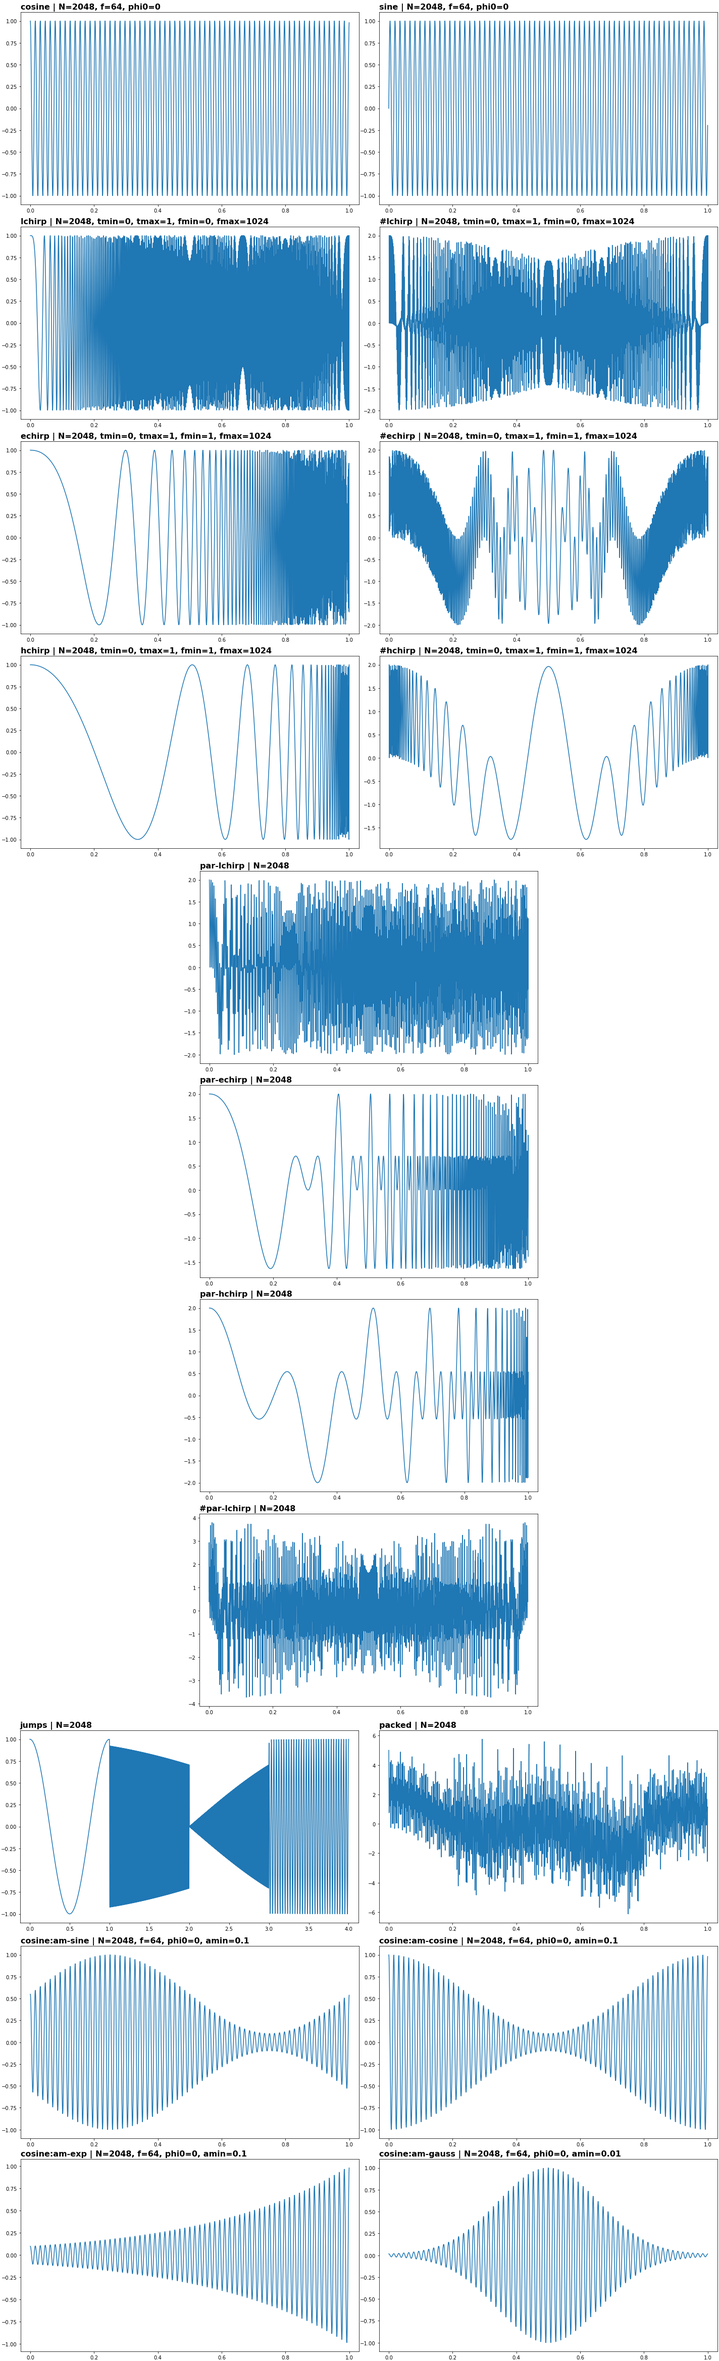
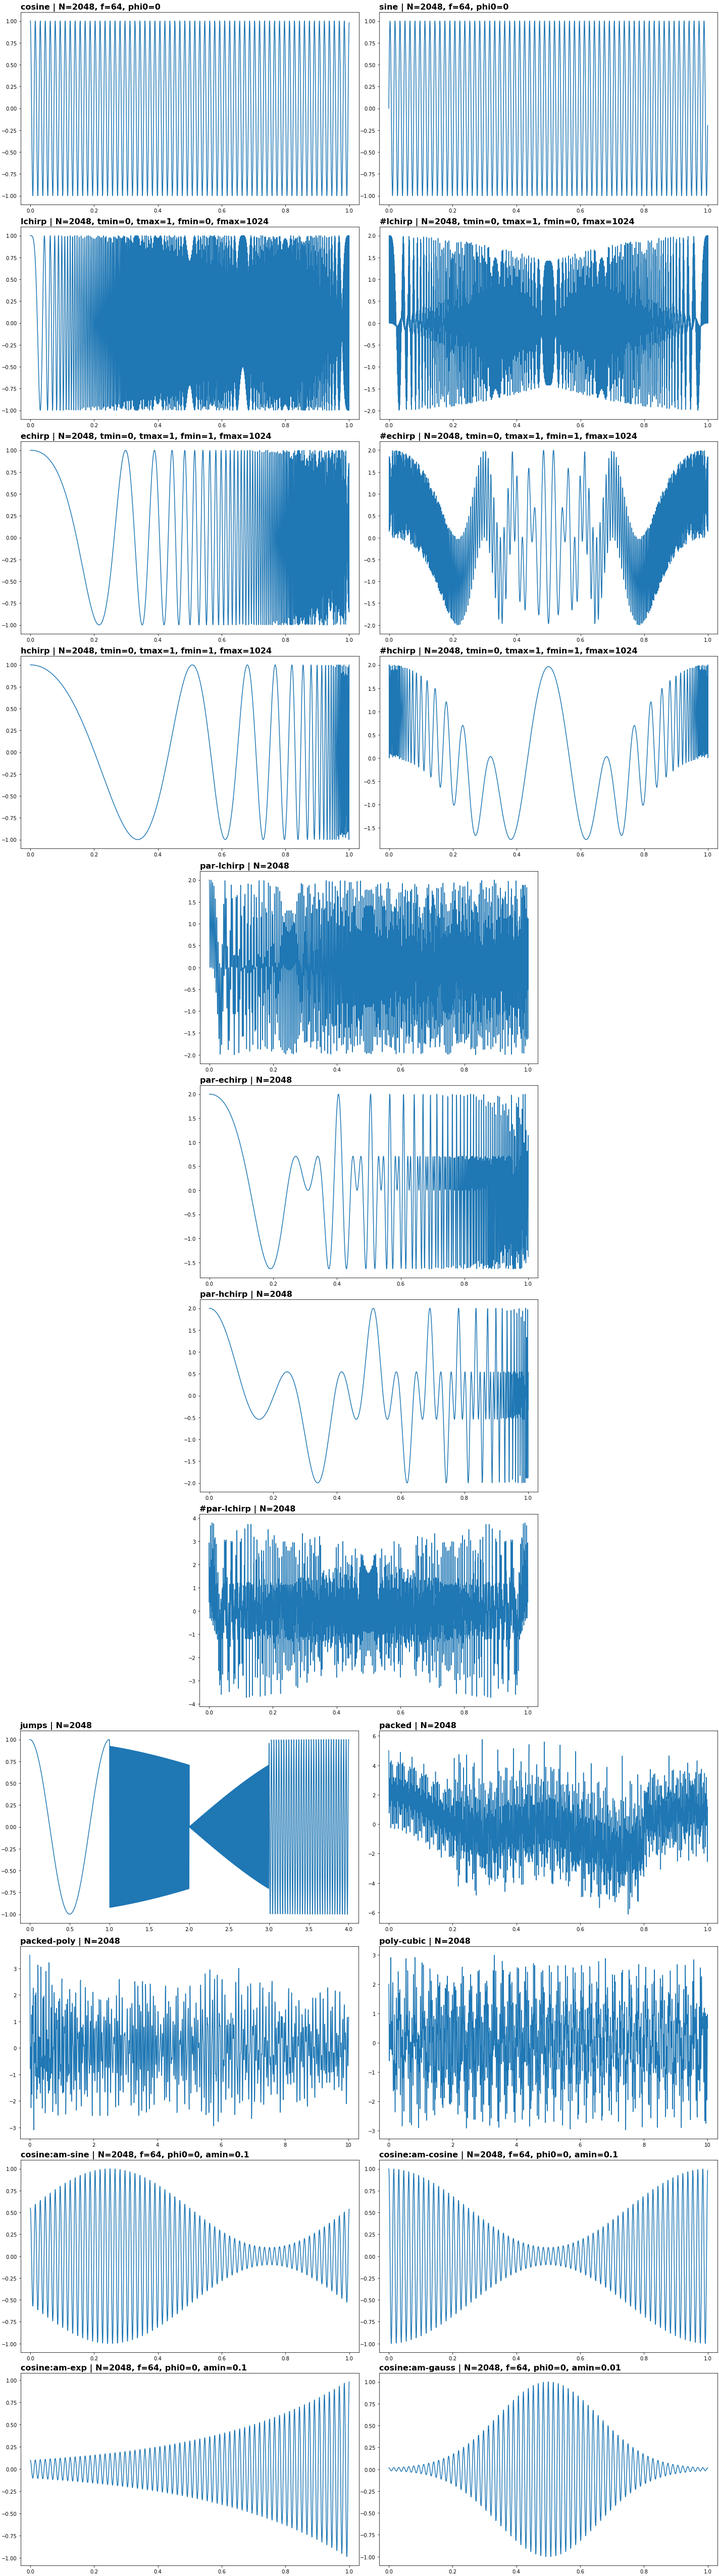
.

Changed region(s): [[0.0, 0.0, 0.9888, 0.9991], [0.0, 0.281, 0.0309, 0.3122], [0.0, 0.2186, 0.0309, 0.2498]]

diff --git a/ssqueezepy/_test_signals.py b/ssqueezepy/_test_signals.py
@@ -37,10 +37,14 @@ variety of localization characteristics.
 12. **packed_poly**: closely-packed polynomial frequency modulations
                 (non-configurable)
                 Generates https://www.desmos.com/calculator/swbhgezpjk with A.M.
+
+13. **poly_cubic**: cubic polynomial frequency variation + pure tone
+               (non-configurable)
 """
 import inspect
 import numpy as np
 import matplotlib.pyplot as plt
+import scipy.signal as sig
 from numpy.fft import rfft
 
 from ._ssq_cwt import ssq_cwt
@@ -48,6 +52,7 @@ from ._ssq_stft import ssq_stft
 from .utils import WARN, _textwrap
 from .wavelets import Wavelet
 from .visuals import plot, plots, imshow
+from .ridge_extraction import extract_ridges
 
 
 pi = np.pi
@@ -123,13 +128,14 @@ class TestSignals():
     """
     SUPPORTED = ['cosine', 'sine', 'lchirp', 'echirp', 'echirp_pc', 'hchirp',
                  'par-lchirp', 'par-echirp', 'par-hchirp', 'jumps', 'packed',
-                 'packed-poly', 'am-sine', 'am-cosine', 'am-exp', 'am-gauss']
+                 'packed-poly', 'poly-cubic',
+                 'am-sine', 'am-cosine', 'am-exp', 'am-gauss']
     # what to show with `signal='all'`, and in what order
     DEMO = ['cosine', 'sine',
             'lchirp', 'echirp', 'hchirp',
             '#lchirp', '#echirp', '#hchirp',
             'par-lchirp', 'par-echirp', 'par-hchirp', '#par-lchirp',
-            'jumps', 'packed', 'packed-poly',
+            'jumps', 'packed', 'packed-poly', 'poly-cubic',
             'am-sine', 'am-cosine', 'am-exp', 'am-gauss']
 
     def __init__(self, N=None, snr=None, default_args=None, default_tkw=None,
@@ -439,6 +445,22 @@ class TestSignals():
         x = x1 + x2 + x3
         return x, t
 
+    def poly_cubic(self, N=None, **tkw):
+        """Cubic polynomial frequency variation + pure tone (non-configurable;
+        adjusts with N to keep bands approx unmoved in time-frequency plane).
+        """
+        N = N or self.N
+        t  = np.linspace(0, 10, N, endpoint=True)
+
+        p1 = np.poly1d([0.025, -0.36, 1.25, 2.0]) * (N / 256)
+        p3 = np.poly1d([0.01, -0.25, 1.5, 4.0]) * (N / 256)
+        x1 = sig.sweep_poly(t, p1)
+        x3 = sig.sweep_poly(t, p3)
+        x2 = np.sin(2*np.pi * (.5*N/256) * t)
+
+        x = x1 + x2 + x3
+        return x, t
+
     #### Test functions ######################################################
     def demo(self, signals='all', N=None, dft=None):
         """Plots signal waveforms, and optionally their DFTs.
@@ -653,13 +675,21 @@ class TestSignals():
                             "(got (%s))" % ', '.join(
                                 map(lambda s: type(s).__name__, signal)))
 
-        if isinstance(signals, (list, tuple)):
+        if isinstance(signals, (str, tuple)):
+            if signals != 'all':
+                signals = [signals]
+        elif not isinstance(signals, list):
+            raise TypeError("`signals` must be string, list, or tuple "
+                            "(got %s)" % type(signals))
+
+        if isinstance(signals, list):
             for signal in signals:
                 if isinstance(signal, str):
                     if ':' in signal:
                         fname, aname = signal.split(':')
                     else:
                         fname, aname = signal, ''
+                    fname = fname.lstrip('#')
 
                     for name in (fname, aname):
                         if name != '' and name not in self.SUPPORTED:
@@ -679,9 +709,6 @@ class TestSignals():
                                     "or tuple or list of (string, dict) or "
                                     "(string, (dict, dict)) pairs "
                                     "(found %s)" % type(signal))
-        elif not isinstance(signals, str):
-            raise TypeError("`signals` must be string, list, or tuple "
-                            "(got %s)" % type(signals))
 
         if signals == 'all':
             signals = self.DEMO.copy()
@@ -841,7 +868,11 @@ class TestSignals():
         imshow(Wx,  **pkw, ax=axes[0, 0], show=0, title=ctitle1)
         imshow(Twx, **pkw, ax=axes[0, 1], show=0, title=ctitle2)
         imshow(Sx,  **pkw, ax=axes[1, 0], show=0, title=stitle1)
-        imshow(Tsx, **pkw, ax=axes[1, 1], show=0, title=stitle2)
+        norm = ((0, np.abs(Tsx).mean()*300) if ("packed-poly" in name)
+                else None)
+        norm = ((0, np.abs(Tsx).mean()*200) if ("#par-lchirp" in name)
+                else norm)
+        imshow(Tsx, **pkw, ax=axes[1, 1], show=0, title=stitle2, norm=norm)
 
         tight_kw = tight_kw or {}
         default_hspace = _get_default_hspace()
@@ -882,6 +913,60 @@ class TestSignals():
 
         stitle1 = _textwrap(stitle1, wrap_len)
         return stitle1, stitle2
+
+    def ridgecomp(self, signals='all', N=None, penalty=20, n_ridges=2, bw=None,
+                  transform='cwt', w=1.2, h=.4, **transform_kw):
+        """Plots extracted ridges from a CWT or STFT and them SSQ'd of `signals`,
+        superimposed on the transform itself, passing in `transform_kw` to
+        `ssq_cwt` or `ssq_stft`. `w` & `h` control plots' width & height.
+
+        See `help(ridge_extraction.extract_ridges)`.
+        """
+        fn = lambda x, t, params: self._ridgecomp_fn(
+            x, t, params, penalty, n_ridges, bw, transform,
+            **transform_kw)
+        self.test_transforms(fn, signals=signals, N=N)
+
+    def _ridgecomp_fn(self, x, t, params, penalty=20, n_ridges=2, bw=None,
+                      transform='cwt', w=1.2, h=.4, **transform_kw):
+        transform_fn = ssq_cwt if transform == 'cwt' else ssq_stft
+        Tfs, Tf, ssq_freqs, scales, *_ = transform_fn(x, t=t, **transform_kw)
+
+        if bw is None:
+            tf_bw, ssq_bw = 10, 2
+        elif isinstance(bw, tuple):
+            tf_bw, ssq_bw = bw
+        else:
+            tf_bw = ssq_bw = bw
+        rkw = dict(penalty=penalty, n_ridges=n_ridges, transform=transform)
+        ridges     = extract_ridges(Tf,  scales,    bw=tf_bw,  **rkw)
+        ssq_ridges = extract_ridges(Tfs, ssq_freqs, bw=ssq_bw, **rkw)
+
+        name, fparams, aparams = params
+        if transform == 'cwt':
+            Tf = np.flipud(Tf)
+            ridges = len(Tf) - ridges
+            title, title_s = "abs(CWT) w/ ridges", "abs(SSQ_CWT) w/ ridges"
+        else:
+            title, title_s = "abs(STFT) w/ ridges", "abs(SSQ_STFT) w/ ridges"
+        tridge = "\npenalty={}, n_ridges={}, tf_bw={}, ssq_bw={}".format(
+            penalty, n_ridges, tf_bw, ssq_bw)
+        title += tridge
+        tbase = self._title(name, len(x), fparams, aparams)
+        title = tbase + '\n' + title
+
+        fig, axes = plt.subplots(1, 2, figsize=(w * 12, h * 12))
+
+        pkw = dict(color='k', linestyle='--', ylims=(0, len(Tf)),
+                   xlims=(0, Tf.shape[1]), ticks=0)
+        plot(ridges,     ax=axes[0], **pkw)
+        imshow(Tf,  abs=1, title=title,   ax=axes[0], show=0)
+        plot(ssq_ridges, ax=axes[1], **pkw)
+        imshow(Tfs, abs=1, title=title_s, ax=axes[1], show=0)
+
+        tight_kw = dict(left=0, right=1, bottom=0, top=1, wspace=.01, hspace=0)
+        plt.subplots_adjust(**tight_kw)
+        plt.show()
 
 
 def _t(tmin, tmax, N, endpoint=False):

diff --git a/tests/test_signals_test.py b/tests/test_signals_test.py
@@ -66,6 +66,18 @@ def test_cwt_vs_stft():
                       n_fft=n_fft, window_name=window_name, config_str=config_str)
 
 
+def test_ridgecomp():
+    N = 256
+    n_ridges = 3
+    penalty = 25
+    signals = 'poly-cubic'
+
+    tsigs = TestSignals(N=N)
+    kw = dict(N=N, signals=signals, n_ridges=n_ridges, penalty=penalty)
+    tsigs.ridgecomp(transform='cwt',  **kw)
+    tsigs.ridgecomp(transform='stft', **kw)
+
+
 if __name__ == '__main__':
     if VIZ:
         test_demo()

diff --git a/examples/test_transforms.py b/examples/test_transforms.py
@@ -68,3 +68,15 @@ signals = 'packed-poly'
 
 tsigs = TestSignals(N=N, snr=snr)
 tsigs.cwt_vs_stft(N=N, signals=signals, **kw)
+
+#%%# Ridge extraction ########################################################
+N = 512
+signals = 'poly-cubic'
+snr = None
+n_ridges = 3
+penalty = 25
+
+tsigs = TestSignals(N=N, snr=snr)
+kw = dict(N=N, signals=signals, n_ridges=n_ridges, penalty=penalty)
+tsigs.ridgecomp(transform='cwt',  **kw)
+tsigs.ridgecomp(transform='stft', **kw)
